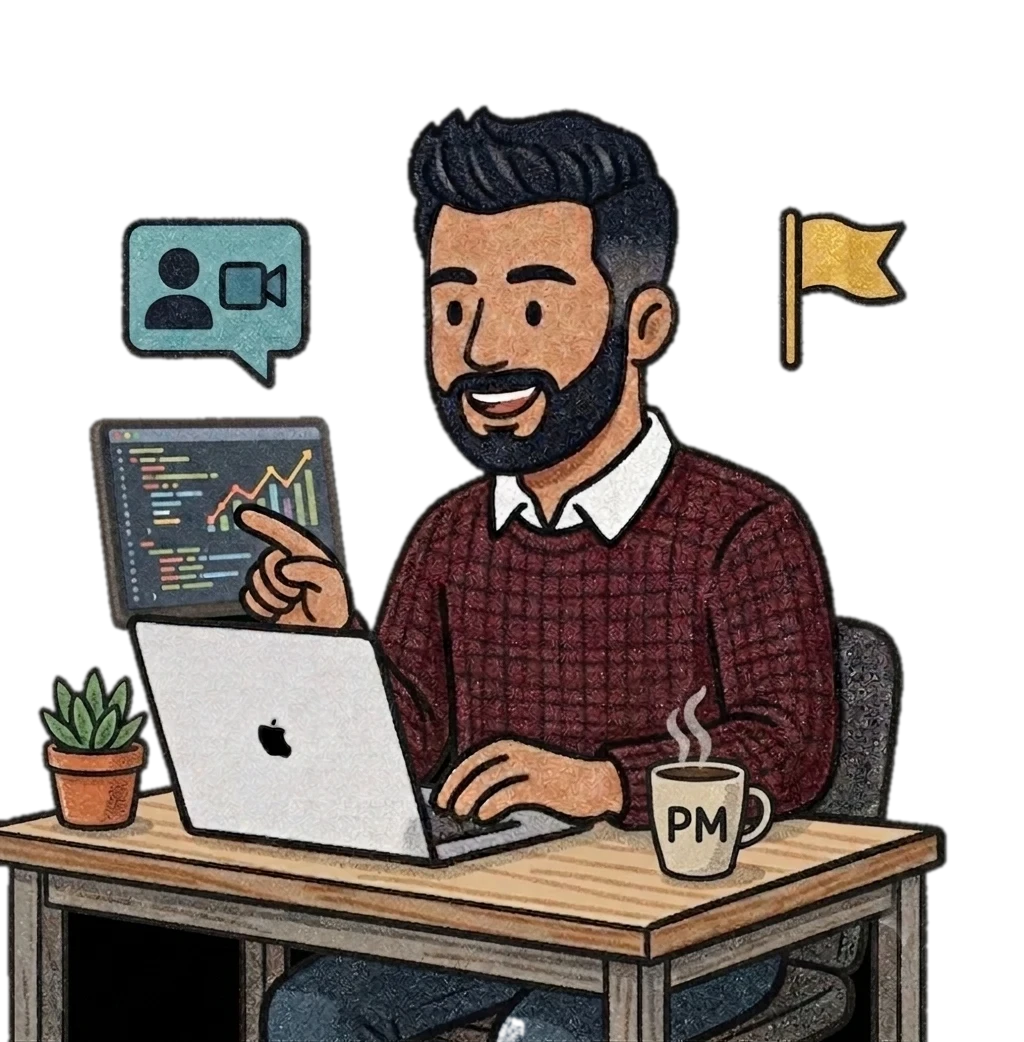
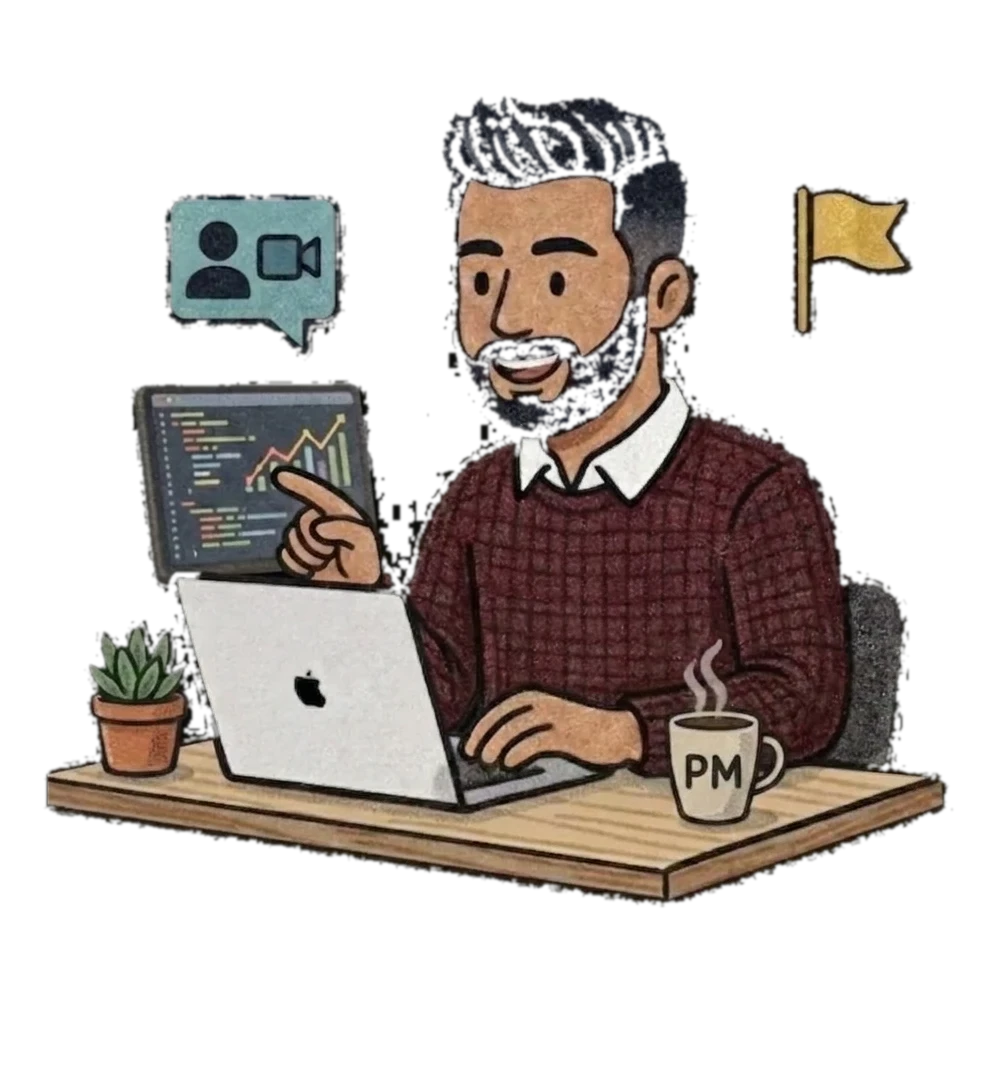
Remove section divider lines, swap in new hero illustration
Drop the border-t separators on Projects, Resume, Skills, About,
Contact and the footer so the page reads as one continuous scroll
instead of visibly stacked blocks; the py-24 spacing and section
headings still mark where each part starts.

Replace the hero illustration with the newly provided artwork,
processed the same way as before: the Gemini watermark (bottom right
corner, sitting on plain background this time) is painted out, then
the background is flood-filled to transparent so the character floats
directly on the page.

Claude-Session: https://claude.ai/code/session_0148hnBzyiZHe4B2qUjcXab1

diff --git a/components/Contact.tsx b/components/Contact.tsx
@@ -3,7 +3,7 @@ import Reveal from "@/components/Reveal";
 
 export default function Contact() {
   return (
-    <section id="contact" className="py-24 border-t border-border relative overflow-hidden">
+    <section id="contact" className="py-24 relative overflow-hidden">
       <div className="pointer-events-none absolute inset-0 bg-[radial-gradient(ellipse_at_bottom,_rgba(77,141,255,0.12),_transparent_55%)]" />
 
       <div className="mx-auto max-w-3xl px-6 sm:px-8 relative text-center">

diff --git a/components/Footer.tsx b/components/Footer.tsx
@@ -2,7 +2,7 @@ import { profile } from "@/lib/data";
 
 export default function Footer() {
   return (
-    <footer className="border-t border-border py-8">
+    <footer className="py-8">
       <div className="mx-auto max-w-6xl px-6 sm:px-8 flex flex-col sm:flex-row items-center justify-between gap-4 text-xs text-muted font-display font-semibold">
         <p>&copy; {new Date().getFullYear()} {profile.name}. Built in London.</p>
         <p>{profile.location}</p>

diff --git a/components/About.tsx b/components/About.tsx
@@ -19,7 +19,7 @@ function LinkText({ href, children }: { href: string; children: ReactNode }) {
 
 export default function About() {
   return (
-    <section id="about" className="py-24 border-t border-border">
+    <section id="about" className="py-24">
       <div className="mx-auto max-w-3xl px-6 sm:px-8 text-center">
         <Reveal>
           <div className="mx-auto flex h-28 w-28 items-center justify-center overflow-hidden rounded-full">

diff --git a/components/Projects.tsx b/components/Projects.tsx
@@ -28,7 +28,7 @@ function ProjectIcon({ icon }: { icon: "baby" | "chart" }) {
 
 export default function Projects() {
   return (
-    <section id="projects" className="py-24 border-t border-border">
+    <section id="projects" className="py-24">
       <div className="mx-auto max-w-6xl px-6 sm:px-8">
         <Reveal>
           <div className="flex items-end justify-between flex-wrap gap-4">

diff --git a/components/Skills.tsx b/components/Skills.tsx
@@ -4,7 +4,7 @@ import SectionHeading from "@/components/SectionHeading";
 
 export default function Skills() {
   return (
-    <section id="skills" className="py-24 border-t border-border">
+    <section id="skills" className="py-24">
       <div className="mx-auto max-w-6xl px-6 sm:px-8">
         <Reveal>
           <SectionHeading eyebrow="Skills" title="The toolkit behind the roadmap" />

diff --git a/components/Resume.tsx b/components/Resume.tsx
@@ -5,7 +5,7 @@ import SectionHeading from "@/components/SectionHeading";
 
 export default function Resume() {
   return (
-    <section id="resume" className="py-24 border-t border-border">
+    <section id="resume" className="py-24">
       <div className="mx-auto max-w-6xl px-6 sm:px-8">
         <Reveal>
           <SectionHeading eyebrow="Experience & Education" title="Resume" />
